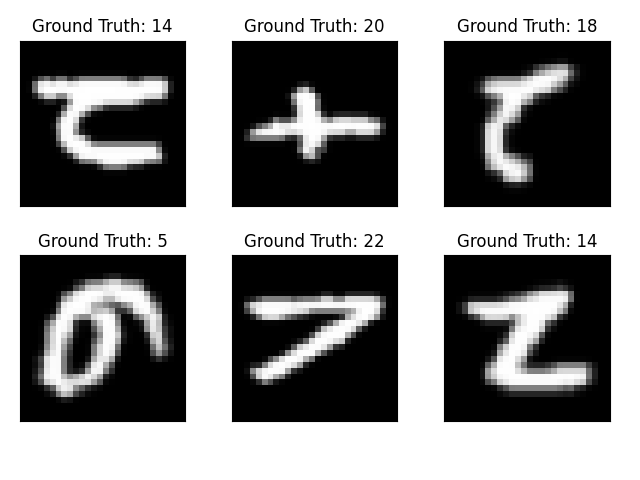
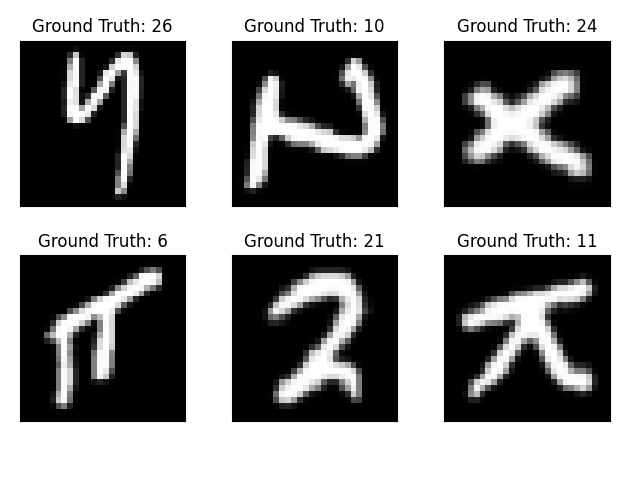
cleaner code, WIP better sentences

diff --git a/data/sen_loader.py b/data/sen_loader.py
@@ -3,6 +3,7 @@ import pdb
 import random
 import torch
 import torchvision
+import torchvision.transforms.functional as F
 import matplotlib.pyplot as plt
 import pandas
 import string
@@ -45,11 +46,11 @@ def plot(data, label):
 class SentencesDataset(Dataset):
     """Dataset for sentences of 32 characters"""
 
-    def __init__(self, file):
-        self.emnist_loaded = EmnistSampler('./sorted_emnist.pt')
+    def __init__(self, PATH, which):
+        self.emnist_loaded = EmnistSampler(PATH, which)
         # test = self.emnist_loaded.sample('b')
         # plot(test, 2)
-
+        file = "./text_generation/clean_text.txt"
         self.text = open_file(file)
         self.len = len(self.text)
         random.seed = random.random()
@@ -77,30 +78,36 @@ class SentencesDataset(Dataset):
 
 
 class EmnistSampler:
-    def __init__(self, PATH = None):
+    def __init__(self, PATH = None, which='train'):
         # Load sorted_emnist if PATH is given
         if PATH:
-            self.letters = torch.load('./sorted_emnist.pt')
+            self.letters = torch.load(PATH)
             return
 
+        if which == 'train':
+            dataset = torchvision.datasets.EMNIST('./data/emnist', split='letters', train=True, download=True,
+                                                        transform=torchvision.transforms.Compose(
+                                                            [   # Fix image orientation
+                                                                lambda img: F.rotate(img, -90),
+                                                                lambda img: F.hflip(img),
+                                                                torchvision.transforms.ToTensor(),
+                                                                # Convert a PIL image or np.ndarray to tensor
+                                                                torchvision.transforms.Normalize((0.1307,), (0.3081,))
+                                                                # (mean, std)
+                                                            ]))  # , shuffle=True)
+        else:
+            dataset = torchvision.datasets.EMNIST('./data/emnist', split='letters', train=False, download=True,
+                                                  transform=torchvision.transforms.Compose(
+                                                      [  # Fix image orientation
+                                                          lambda img: F.rotate(img, -90),
+                                                          lambda img: F.hflip(img),
+                                                          torchvision.transforms.ToTensor(),
+                                                          torchvision.transforms.Normalize((0.1307,), (0.3081,))
+                                                      ]))  # , shuffle=True)
 
-        # train_loader = torch.utils.data.DataLoader(
-        train_dataset = torchvision.datasets.EMNIST('./data/emnist', split='letters', train=True, download=True,
-                                                    transform=torchvision.transforms.Compose(
-                                                        [  # Composes several transforms together
-                                                            #torchvision.transforms.RandomPerspective(),
-                                                            # %50 percent chance the image perspective will change(distorted)
-                                                            #torchvision.transforms.RandomRotation(10, fill=(0,)),
-                                                            torchvision.transforms.ToTensor(),
-                                                            # Convert a PIL image or np.ndarray to tensor
-                                                            torchvision.transforms.Normalize((0.1307,), (0.3081,))
-                                                            # (mean, std)
-                                                        ]))  # , shuffle=True)
-        #pdb.set_trace()
+        # Store Training Dataset
         letters = {}
-        for x in train_dataset:
-            #pdb.set_trace()
-
+        for x in dataset:
             #plot(x[0], x[1])
             char = num_to_letter(x[1])
             if char in letters:
@@ -108,17 +115,17 @@ class EmnistSampler:
             else:
                 letters[char] = list()
                 letters[char].append(x[0])
-
         self.letters = letters
 
         # Save dictionary of lists of char images
-        #torch.save(self.letters, 'sorted_emnist.pt')
+        if which == 'train':
+            torch.save(self.letters, 'sorted_train_emnist.pt')
+        else:
+            torch.save(self.letters, 'sorted_test_emnist.pt')
 
-        #pdb.set_trace()
         return
 
     def sample(self, char):
-        #pdb.set_trace()
         if char == ' ':
             space_tensor = np.full((1, 28, 28), fill_value=-0.4242)
             return torch.from_numpy(space_tensor)
@@ -128,24 +135,26 @@ class EmnistSampler:
         return self.letters[char][img_idx]
 
 
-sen_dataset = SentencesDataset("./text_generation/clean_text.txt")
-train_loader = torch.utils.data.DataLoader(sen_dataset, batch_size=32, shuffle=False)
-#train_loader = torch.utils.data.DataLoader(sen_dataset[0][:], batch_size=32, shuffle=False)
+def example_sen_loader():
+    train_dataset = SentencesDataset('./sorted_train_emnist.pt', 'train')
+    train_loader = torch.utils.data.DataLoader(train_dataset, batch_size=100, shuffle=False)
 
-for i_batch, sample in enumerate(train_loader):
-    print("Epoch {}, Batch size {}\n".format(i_batch, 32))
-    if i_batch == 0:
-        for i in range(32):
-            #print(num_to_letter(sample[1][0][i]))
-            test = sample[0][0][i]
-            test = torchvision.transforms.functional.hflip(test)
-            #plot(test, sample[1][0][i])
-            test = torchvision.transforms.functional.rotate(test, 90)
-            plot(test, sample[1][0][i])
-        break
+    test_dataset = SentencesDataset('./sorted_test_emnist.pt', 'test')
+    test_loader = torch.utils.data.DataLoader(test_dataset, batch_size=100, shuffle=False)
 
-exit()
+    for i_batch, sample in enumerate(train_loader):
+        print("Epoch {}, Batch size {}\n".format(i_batch, 32))
+        if i_batch == 0:
+            for i in range(32):
+                test = sample[0][0][i]
+                plot(test, sample[1][0][i])
+            break
+        exit()
 
-#Collate fn
+# Run Example
+example_sen_loader()
+
+
+
 
 

diff --git a/data/emb_loader.py b/data/emb_loader.py
@@ -32,17 +32,16 @@ class VggEmbeddingsDataset(Dataset):
         one_hot_labels = F.one_hot(y)
         torch.save((x, one_hot_labels), PATH)
 
+def example_emb_loader():
+    emb_dataset = VggEmbeddingsDataset('../emb_dataset.pt')
+    train_loader = torch.utils.data.DataLoader(emb_dataset, batch_size=100, shuffle=False)
 
+    for i_batch, sample in enumerate(train_loader):
+        if i_batch == 0:
+            print(sample[0])
+            print("Batch Data Shape = ", sample[0].shape)
+            print("Num Batch Labels = ", sample[1].shape)
+            break
 
-emb_dataset = VggEmbeddingsDataset('../emb_dataset.pt')
-train_loader = torch.utils.data.DataLoader(emb_dataset, batch_size=32, shuffle=False)
-
-for i_batch, sample in enumerate(train_loader):
-    if i_batch == 0:
-        print(sample[0])
-        print("Batch Data Shape = ", sample[0].shape)
-        print("Num Batch Labels = ", sample[1].shape)
-
-
-        break
-
+# Example
+#example_emb_loader()

diff --git a/main_both.py b/main_both.py
@@ -134,7 +134,10 @@ def main(num_epochs = 200,
     #calc_embeddings()
     #test_model_load()
 
+    # Loads random characters
     train_loader, test_loader = loaders.loader(batch_size_train = 100, batch_size_test = 1000)
+
+    # Loads 32 character sentences
 
     # Train the model
     total_step = len(train_loader)
@@ -210,6 +213,6 @@ def main(num_epochs = 200,
                 # saveVGG(model1)
 
             model1.train()
-    #saveVGG(best_model) Uncomment for use on the super computer
+    saveVGG(best_model) # Uncomment for use on the fsl otherwise to get a saved model training needs to run to finish
 if __name__=='__main__':
     main()

diff --git a/data/loaders.py b/data/loaders.py
@@ -12,11 +12,20 @@ import torchvision
 import torch.nn as nn
 import math
 import torch.nn.functional as F
+from sen_loader import *
 import numpy as np
 
 
 def advanced_loader():
     pass
+
+def sentence_loader():
+    train_dataset = SentencesDataset(None, 'train')
+    train_loader = torch.utils.data.DataLoader(train_dataset, batch_size=100, shuffle=False)
+
+    test_dataset = SentencesDataset(None, 'test')
+    test_loader = torch.utils.data.DataLoader(test_dataset, batch_size=100, shuffle=False)
+
 
 def loader(batch_size_train = 100,
            batch_size_test = 1000,
